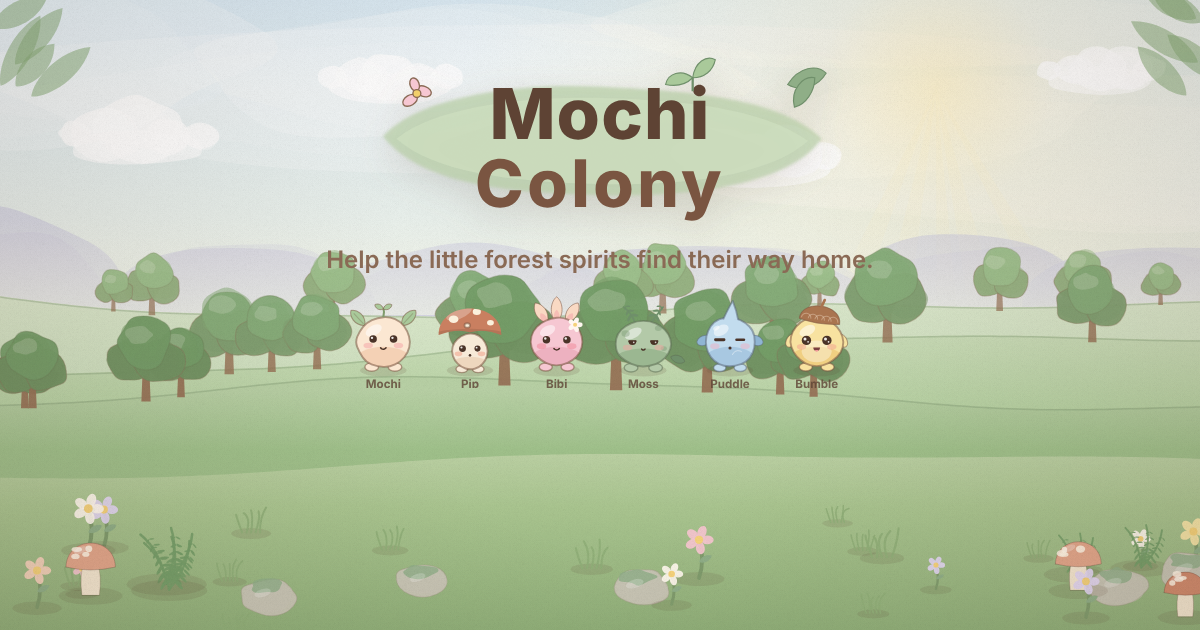
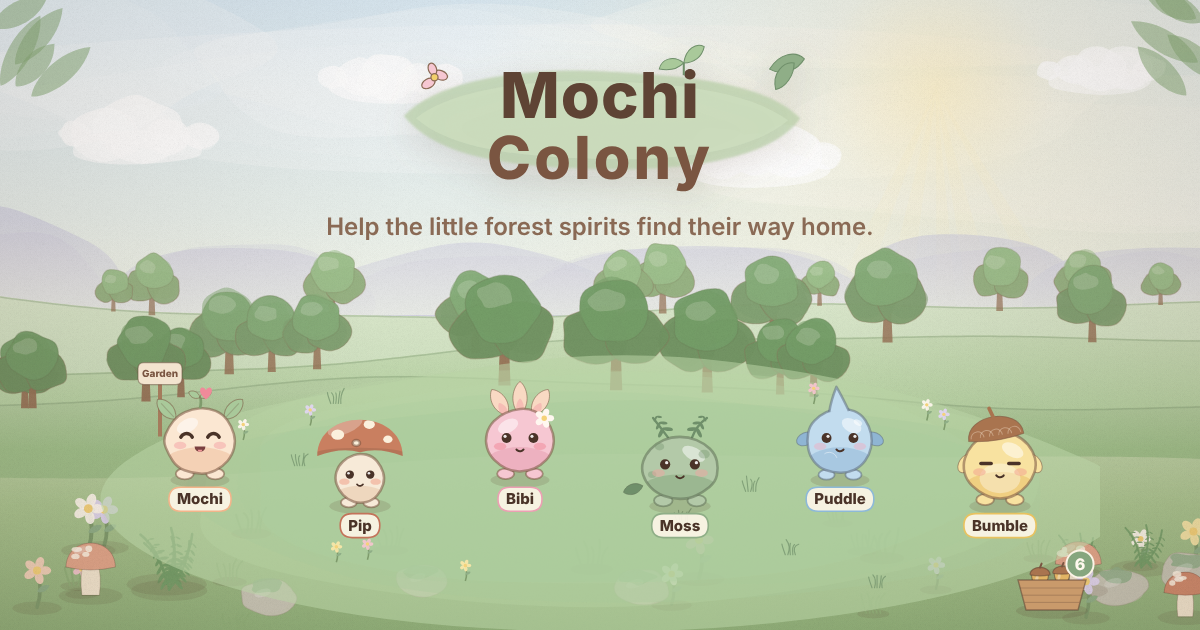
Reward puzzles with acorns and add combo, ripple and bloom effects
- The completion card shows acorns earned and names a hungry friend;
  hungry friends show an acorn thought bubble in the garden
- Connecting pairs in quick succession plays rising chimes and shows a
  combo label; a light ripple runs along each newly connected path
- A perfect garden makes small flowers bloom along every route
- Refresh the link preview to show the whole cast in the garden

Claude-Session: https://claude.ai/code/session_0195uvftCARaRvVNuuDtmbWH

diff --git a/index.html b/index.html
@@ -4,7 +4,7 @@
 <meta charset="utf-8">
 <meta name="viewport" content="width=device-width, initial-scale=1, viewport-fit=cover, user-scalable=no, maximum-scale=1">
 <meta name="theme-color" content="#f6ecd8">
-<meta name="app-version" content="2026.10.16.5">
+<meta name="app-version" content="2026.10.16.6">
 <meta http-equiv="Cache-Control" content="no-cache">
 <meta name="apple-mobile-web-app-capable" content="yes">
 <meta name="apple-mobile-web-app-status-bar-style" content="default">
@@ -200,6 +200,9 @@ canvas{display:block;}
 #intro .txt b{display:block; font-size:16px; font-weight:800;}
 #intro .txt span{color:var(--brown-soft);}
 #toast.action{pointer-events:auto; cursor:pointer; background:linear-gradient(180deg,#86a67e,#6f8f6a); color:#fff8ee;}
+.treats-earned{display:inline-flex; align-items:center; gap:8px; margin:0 auto 12px; padding:6px 14px 6px 8px; border-radius:16px; background:rgba(226,180,100,.2); color:#7a5541; font-weight:800; font-size:14px;}
+.treats-earned[hidden]{display:none;}
+.treats-earned canvas{width:26px; height:26px;}
 .card .next-up{font-size:14px; font-weight:800; color:var(--moss-deep); margin:-8px 0 14px;}
 .sr-only{position:absolute; width:1px; height:1px; overflow:hidden; clip:rect(0 0 0 0); white-space:nowrap;}
 .reduce-motion *{transition-duration:.01ms !important; animation-duration:.01ms !important;}
@@ -273,6 +276,7 @@ canvas{display:block;}
       <p class="sub" id="complete-sub">Level 1 · Hello, Mochi</p>
       <div class="stars-big" id="complete-stars"></div>
       <div id="complete-unlock" class="unlock" hidden></div>
+      <div id="complete-treats" class="treats-earned" hidden></div>
       <p class="msg" id="complete-msg"></p>
       <div class="next-up" id="complete-next"></div>
       <div class="actions">
@@ -344,7 +348,8 @@ const Audio = {
   step(i) { if (!this.enabled) return; const t = now(); if (t - this.lastStep < 45) return; this.lastStep = t; const scale = [523.25, 587.33, 659.25, 783.99, 880, 1046.5, 1174.7, 1318.5]; this.pluck(scale[i % scale.length], 0, .22); },
   bump() { this.tone(150, .09, { type: 'triangle', vol: .3, release: .08, slide: .6 }); },
   cut() { this.tone(420, .07, { type: 'sine', vol: .2, release: .1, slide: .7 }); },
-  connect() { this.pluck(659.25, 0, .35); this.pluck(987.77, .09, .35); this.tone(1318.5, .18, { type: 'sine', vol: .12, at: .18, release: .3 }); },
+  connect(combo = 1) { const k = Math.pow(2, Math.min(combo - 1, 6) * 2 / 12); this.pluck(659.25 * k, 0, .35); this.pluck(987.77 * k, .09, .35); this.tone(1318.5 * k, .18, { type: 'sine', vol: .12, at: .18, release: .3 }); if (combo > 1) this.tone(1975.5 * k, .12, { type: 'sine', vol: .08, at: .26, release: .3 }); },
+  bloom() { [1046.5, 1318.5, 1568, 2093, 2637].forEach((f, i) => this.tone(f, .1, { type: 'sine', vol: .1, at: i * .07, release: .35 })); },
   arrive() { this.tone(880, .06, { type: 'sine', vol: .25, release: .15, slide: 1.4 }); this.tone(1760, .05, { type: 'sine', vol: .1, at: .06, release: .2 }); },
   pop() { this.tone(520, .04, { type: 'sine', vol: .2, release: .06, slide: 1.3 }); },
   undo() { this.pluck(523.25, 0, .25); this.pluck(392, .08, .25); },
@@ -1006,7 +1011,7 @@ const Game = {
   pulsePair(i) { const cre = this.creatures[i]; cre.jump = .01; this.homes[i].react = 0; this.homes[i].pulse = this.t; this.setExpr(i, 'curious', 1.4); const h = this.level.pairs[i].home; cre.look = [Math.sign(h[0] - this.level.pairs[i].start[0]) * .7, Math.sign(h[1] - this.level.pairs[i].start[1]) * .5]; },
   resetState() {
     const L = this.level;
-    this.paths = L.pairs.map(() => []); this.history = []; this.strokes = 0; this.hintsUsed = 0; this.complete = false; this.drawing = null; this.hint = null; this.particles = [];
+    this.paths = L.pairs.map(() => []); this.ripple = L.pairs.map(() => -9); this.combo = 0; this.lastConnectT = -99; this.bloom = null; this.history = []; this.strokes = 0; this.hintsUsed = 0; this.complete = false; this.drawing = null; this.hint = null; this.particles = [];
     this.creatures = L.pairs.map((p, i) => ({ pair: i, type: p.type, state: 'idle', expr: null, exprUntil: 0, blinkAt: 1 + Math.random() * 3, blink: 0, phase: Math.random() * TAU, hopY: 0, sx: 1, sy: 1, rot: 0, look: [0, 0], px: 0, py: 0, walk: null, celebT: 0, retFrom: null, retT: 0, jump: 0 }));
     this.homes = L.pairs.map(() => ({ react: 1, lit: 0, pulse: -9 }));
     this.rebuildOcc();
@@ -1082,7 +1087,9 @@ const Game = {
   bump(x, y, what) { const c = Board.center(x, y); this.spawn(c[0], c[1], 'puff', '#d8cdb8', 4); Audio.bump(); Board.shake(x, y); if (!this.seenBump && what === 'rock') { this.seenBump = true; UI.toast('Rocks block the way. Try another route.'); } },
   puff(x, y, color) { const c = Board.center(x, y); this.spawn(c[0], c[1], 'puff', color, 5); },
   onConnect(i) {
-    Audio.connect(); const cre = this.creatures[i]; const p = this.paths[i].slice(); const L = this.level;
+    this.combo = this.t - this.lastConnectT < 6 ? this.combo + 1 : 1; this.lastConnectT = this.t; this.ripple[i] = this.t;
+    Audio.connect(this.combo); const cre = this.creatures[i]; const p = this.paths[i].slice(); const L = this.level;
+    if (this.combo >= 2) { const hc0 = Board.center(L.pairs[i].home[0], L.pairs[i].home[1]); this.particles.push({ x: hc0[0], y: hc0[1] - Board.cell * .55, vx: 0, vy: -28, kind: 'text', text: `Combo ×${this.combo}`, color: shade(CHARS[L.pairs[i].type].path, .35), life: 0, max: 1.3, rot: 0, vr: 0, s: Board.cell * .22 }); }
     if (!(p[0][0] === L.pairs[i].start[0] && p[0][1] === L.pairs[i].start[1])) p.reverse();
     const per = clamp(1.1 / p.length, .08, .15);
     cre.state = 'walk'; cre.walk = { cells: p, i: 0, t: -.18, per }; cre.exprUntil = 0; cre.expr = 'excited'; cre.exprUntil = 99;
@@ -1096,11 +1103,12 @@ const Game = {
     this.complete = true; const n = this.level.pairs.length; const L = this.level;
     const covered = this.occ.size; const tidy = this.strokes <= n + 2; const perfect = L.fill ? covered === L.free : this.strokes <= n + 1;
     let stars = 1 + (tidy ? 1 : 0) + (perfect ? 1 : 0); if (this.hintsUsed) stars = Math.min(stars, 2);
-    const prevUnlocked = Save.unlockedCount();
+    const prevUnlocked = Save.unlockedCount(); const treatsBefore = Save.data.treats || 0;
     if (this.idx === -1) Save.setDaily(stars); else { Save.setStars(this.idx, stars); Save.data.perfectStreak = stars === 3 ? (Save.data.perfectStreak || 0) + 1 : 0; Save.save(); }
     const maxWalk = Math.max(...this.creatures.map(c => c.walk ? (c.walk.cells.length - 1 - c.walk.i) * c.walk.per + .2 : 0));
     this.completeAt = this.t + maxWalk + .7;
-    this.pending = { stars, covered, perfect, tidy, newArea: this.idx >= 0 && Save.unlockedCount() > prevUnlocked ? AREAS.find(a => a.levels[0] === prevUnlocked) : null };
+    if (L.fill && perfect) { this.bloom = { t0: this.t + .15 }; this.completeAt += .5; setTimeout(() => Audio.bloom(), 150); }
+    this.pending = { earned: (Save.data.treats || 0) - treatsBefore, stars, covered, perfect, tidy, newArea: this.idx >= 0 && Save.unlockedCount() > prevUnlocked ? AREAS.find(a => a.levels[0] === prevUnlocked) : null };
     UI.updateHud();
   },
   undo() {
@@ -1162,7 +1170,7 @@ const Game = {
       }
     }
     for (let i = 0; i < this.homes.length; i++) { const h = this.homes[i]; if (h.react < 1) h.react = Math.min(1, h.react + dt * 1.6); const want = this.creatures[i].state === 'home' ? 1 : 0; h.lit += (want - h.lit) * Math.min(1, dt * 4); }
-    for (let i = this.particles.length - 1; i >= 0; i--) { const p = this.particles[i]; p.life += dt; if (p.life > p.max) { this.particles.splice(i, 1); continue; } p.vy += (p.kind === 'heart' ? -10 : p.kind === 'puff' ? -20 : 70) * dt; p.vx *= (1 - dt * 1.5); p.x += p.vx * dt; p.y += p.vy * dt; p.rot += p.vr * dt; }
+    for (let i = this.particles.length - 1; i >= 0; i--) { const p = this.particles[i]; p.life += dt; if (p.life > p.max) { this.particles.splice(i, 1); continue; } p.vy += (p.kind === 'heart' ? -10 : p.kind === 'puff' ? -20 : p.kind === 'text' ? 12 : 70) * dt; p.vx *= (1 - dt * 1.5); p.x += p.vx * dt; p.y += p.vy * dt; p.rot += p.vr * dt; }
     if (this.hint && this.t > this.hint.until) this.hint = null;
     if (this.intro) { this.intro.t += dt; if (this.intro.t > .55) { this.intro.t = 0; this.intro.i++; if (this.intro.i >= L.pairs.length) this.intro = null; else this.pulsePair(this.intro.i); } }
     if (this.tutorial) this.tutorial.t += dt;
@@ -1266,11 +1274,25 @@ const Board = {
       ctx.strokeStyle = shade(col, .3); ctx.globalAlpha = (live ? .9 : 1) * .35; ctx.lineWidth = cs * .5; ctx.stroke(); ctx.globalAlpha = live ? .9 : 1;
       ctx.strokeStyle = col; ctx.globalAlpha *= .9; ctx.lineWidth = cs * .42; ctx.stroke();
       ctx.globalAlpha = .9; ctx.strokeStyle = 'rgba(255,255,255,.26)'; ctx.lineWidth = cs * .13; ctx.save(); ctx.translate(-cs * .04, -cs * .05); this.ribbon(ctx, p, cs); ctx.stroke(); ctx.restore();
+      // a bright ripple runs from the creature to its home when a path connects
+      const rAge = t - (Game.ripple ? Game.ripple[i] : -9);
+      if (done && rAge >= 0 && rAge < .9) {
+        const k = rAge / .9; const fwd = p[0][0] === L.pairs[i].start[0] && p[0][1] === L.pairs[i].start[1]; const pos = (fwd ? k : 1 - k) * (p.length - 1); const ix = Math.min(p.length - 2, Math.floor(pos)); const f = pos - ix;
+        const a = this.center(p[ix][0], p[ix][1]), b = this.center(p[ix + 1][0], p[ix + 1][1]); const gx = lerp(a[0], b[0], f), gy = lerp(a[1], b[1], f);
+        ctx.save(); ctx.globalAlpha = .55 * (1 - k * .6); this.ribbon(ctx, p, cs); ctx.strokeStyle = 'rgba(255,255,255,.5)'; ctx.lineWidth = cs * .5 * (1 + .25 * Math.sin(k * Math.PI)); ctx.stroke();
+        const g = ctx.createRadialGradient(gx, gy, 0, gx, gy, cs * .6); g.addColorStop(0, 'rgba(255,255,255,.95)'); g.addColorStop(1, 'rgba(255,255,255,0)'); ctx.globalAlpha = 1 - k * .5; ctx.fillStyle = g; circle(ctx, gx, gy, cs * .6); ctx.fill(); ctx.restore();
+      }
       // motif marks along the ribbon
       for (let j = 2; j < p.length - 1; j += 2) { const c0 = this.center(p[j][0], p[j][1]); drawMotif(ctx, C.motif, c0[0], c0[1], cs * .09, rgba('#ffffff', done ? .55 : .4)); }
       if (live) { const l = this.center(p[p.length - 1][0], p[p.length - 1][1]); const g = ctx.createRadialGradient(l[0], l[1], 0, l[0], l[1], cs * .5); g.addColorStop(0, 'rgba(255,255,255,.55)'); g.addColorStop(1, 'rgba(255,255,255,0)'); ctx.fillStyle = g; ctx.globalAlpha = .6 + .3 * Math.sin(t * 8); circle(ctx, l[0], l[1], cs * .5); ctx.fill(); }
       ctx.restore();
     });
+    // perfect garden: little flowers bloom along every route
+    if (Game.bloom) {
+      Game.paths.forEach((p, i) => { const col = CHARS[L.pairs[i].type].path; for (let j = 1; j < p.length - 1; j++) {
+        const d = i * .06 + j / p.length * .55; const k = clamp((t - Game.bloom.t0 - d) / .35, 0, 1); if (k <= 0) continue; const sc = easeBack(k); const c0 = this.center(p[j][0], p[j][1]); const r = cs * .13 * sc;
+        ctx.save(); ctx.translate(c0[0], c0[1]); ctx.rotate(j * 1.3); ctx.fillStyle = tint(col, .55); for (let q = 0; q < 5; q++) { const an = q / 5 * TAU; ellipse(ctx, Math.cos(an) * r * .9, Math.sin(an) * r * .9, r * .7, r * .48, an); ctx.fill(); } ctx.fillStyle = '#f5d27a'; circle(ctx, 0, 0, r * .45); ctx.fill(); ctx.restore(); } });
+    }
     // hint ghost route
     if (Game.hint) { const P = L.pairs[Game.hint.pair]; const C = CHARS[P.type]; const k = clamp((t - Game.hint.start) / .5, 0, 1); ctx.save(); ctx.globalAlpha = .55 * k * (Game.hint.until - t < .6 ? (Game.hint.until - t) / .6 : 1); this.ribbon(ctx, P.solution, cs); ctx.setLineDash([cs * .22, cs * .22]); ctx.lineDashOffset = -t * cs * .8; ctx.strokeStyle = shade(C.path, .2); ctx.lineWidth = cs * .18; ctx.stroke(); ctx.restore(); }
     // "this is where I live" rings: while drawing a friend's path, or after tapping a friend
@@ -1310,6 +1332,7 @@ const Board = {
       if (p.kind === 'petal') { ellipse(ctx, 0, 0, p.s, p.s * .6); ctx.fill(); ctx.fillStyle = 'rgba(255,255,255,.4)'; ellipse(ctx, -p.s * .3, -p.s * .1, p.s * .3, p.s * .2); ctx.fill(); }
       else if (p.kind === 'sparkle') { drawMotif(ctx, 'star', 0, 0, p.s * (1.4 - k), '#fff1c4'); }
       else if (p.kind === 'heart') { const s = p.s * (1 + k * .4); ctx.beginPath(); ctx.moveTo(0, s * .7); ctx.bezierCurveTo(-s * 1.2, -s * .2, -s * .5, -s * 1.1, 0, -s * .35); ctx.bezierCurveTo(s * .5, -s * 1.1, s * 1.2, -s * .2, 0, s * .7); ctx.fill(); }
+      else if (p.kind === 'text') { ctx.rotate(-p.rot); const fs = Math.max(13, p.s); ctx.font = `800 ${fs}px ${getComputedStyle(document.body).fontFamily}`; ctx.textAlign = 'center'; ctx.textBaseline = 'middle'; const tw = ctx.measureText(p.text).width; ctx.globalAlpha = 1 - easeIn(k); ctx.fillStyle = 'rgba(251,244,230,.95)'; roundRectPath(ctx, -tw / 2 - 9, -fs * .75, tw + 18, fs * 1.5, fs * .75); ctx.fill(); ctx.fillStyle = p.color; ctx.fillText(p.text, 0, 1); }
       else { circle(ctx, 0, 0, p.s * (1 + k * 1.5)); ctx.globalAlpha *= .7; ctx.fill(); }
       ctx.restore();
     }
@@ -1423,7 +1446,7 @@ const UI = {
   hideIntro() { $('#intro').classList.remove('show'); clearTimeout(this.introT); },
   hintBubble(msg, ms) { const el = $('#hint-bubble'); el.textContent = msg; el.classList.add('show'); clearTimeout(this.hintT); this.hintT = setTimeout(() => el.classList.remove('show'), ms); },
   hideHintBubble() { $('#hint-bubble').classList.remove('show'); clearTimeout(this.hintT); },
-  showComplete({ stars, newArea, covered, perfect, tidy }) {
+  showComplete({ stars, newArea, covered, perfect, tidy, earned }) {
     const L = Game.level; const daily = Game.idx === -1; const last = !daily && Game.idx === LEVELS.length - 1;
     $('#complete-title').textContent = last ? 'The whole colony is home!' : stars === 3 ? (L.fill ? 'Perfect garden!' : "Everyone's home!") : 'Everyone made it home!';
     $('#complete-sub').textContent = daily ? `Today's puzzle · ${Save.todayKey()}` : `Level ${L.index + 1} · ${L.name}`;
@@ -1435,6 +1458,9 @@ const UI = {
     const ps = Save.data.perfectStreak || 0; if (!daily && stars === 3 && ps >= 2) msg += ` Perfect streak ×${ps}!`;
     $('#complete-msg').textContent = msg;
     $('#btn-replay').textContent = L.fill && !perfect ? 'Try for perfect' : 'Replay';
+    const te = $('#complete-treats');
+    if (earned > 0) { const hungry = CHAR_ORDER.filter(t => (t === 'mochi' || Save.data.met[t]) && Save.happy(t) < 40).map(t => CHARS[t].name)[0]; te.hidden = false; te.innerHTML = `<canvas width="52" height="52" aria-hidden="true"></canvas><span>+${earned} acorn${earned === 1 ? '' : 's'}${hungry ? ` · ${hungry} is hungry!` : ' for the garden'}</span>`; const cx = $('canvas', te).getContext('2d'); cx.setTransform(2, 0, 0, 2, 0, 0); drawAcorn(cx, 13, 12, 15); }
+    else te.hidden = true;
     const un = $('#complete-unlock'); if (newArea) { un.hidden = false; un.textContent = `New area unlocked: ${newArea.name}`; } else un.hidden = true;
     $('#btn-next').textContent = last ? 'Back to the map' : daily ? 'Done for today' : 'Next level';
     const nextEl = $('#complete-next'); if (daily) nextEl.textContent = `${Save.dailyStreak()}-day streak. A new puzzle arrives tomorrow.`; else if (last) nextEl.textContent = `${Save.totalStars()} of ${LEVELS.length * 3} colony stars collected`;
@@ -1663,6 +1689,7 @@ const Garden = {
       ctx.font = `800 ${fs}px ${font}`; const tw = ctx.measureText(name).width; const bw = tw + 16, bh = fs + 9, bx = p.x - bw / 2, by = p.y + u * .1;
       ctx.fillStyle = 'rgba(251,244,230,.94)'; roundRectPath(ctx, bx, by, bw, bh, bh / 2); ctx.fill(); ctx.strokeStyle = CHARS[p.type].path; ctx.lineWidth = 1.6; ctx.stroke();
       ctx.fillStyle = '#4a3328'; ctx.textAlign = 'center'; ctx.textBaseline = 'middle'; ctx.fillText(name, p.x, by + bh / 2 + .5);
+      if (p.meterT <= 0 && ['idle', 'sniff', 'walk'].includes(p.state) && Save.happy(p.type) < 35 && Math.sin(t * .9 + p.phase) > .2) { const bx = p.x + u * .32 * p.face, by = p.y - u * 1.0 + p.hopY; ctx.save(); ctx.fillStyle = 'rgba(251,244,230,.95)'; ctx.strokeStyle = 'rgba(94,67,52,.35)'; ctx.lineWidth = 1.2; circle(ctx, bx, by, 13); ctx.fill(); ctx.stroke(); circle(ctx, bx - 9 * p.face, by + 14, 3.5); ctx.fill(); ctx.stroke(); drawAcorn(ctx, bx, by - 1, 12); ctx.restore(); }
       if (p.meterT > 0) { const hpy = Save.happy(p.type); const a = Math.min(1, p.meterT * 2); ctx.save(); ctx.globalAlpha = a; const mx = p.x - 2 * 11, my = p.y - u * 1.02 + p.hopY; ctx.fillStyle = 'rgba(251,244,230,.9)'; roundRectPath(ctx, mx - 9, my - 9, 5 * 11 + 7, 17, 8); ctx.fill(); for (let i = 0; i < 5; i++) { const fill = clamp(hpy / 20 - i, 0, 1); drawHeart(ctx, mx + i * 11, my, 4.6, 'rgba(94,67,52,.18)'); if (fill > 0) { ctx.save(); ctx.beginPath(); ctx.rect(mx + i * 11 - 6, my - 6, 12 * fill, 12); ctx.clip(); drawHeart(ctx, mx + i * 11, my, 4.6, '#f08a9a'); ctx.restore(); } } ctx.restore(); }
     }
     for (const f of this.fx) { const k = f.life / f.max; ctx.save(); ctx.globalAlpha = 1 - easeIn(k); if (f.k === 'heart') drawHeart(ctx, f.x, f.y, f.s * (1 + k * .3), '#f08a9a'); else if (f.k === 'z') { ctx.fillStyle = '#7a6a8a'; ctx.font = `800 ${f.s}px ${font}`; ctx.textAlign = 'center'; ctx.fillText('z', f.x, f.y); } else { ctx.fillStyle = '#c99a6b'; circle(ctx, f.x, f.y, f.s); ctx.fill(); } ctx.restore(); }

diff --git a/README.md b/README.md
@@ -29,6 +29,12 @@ friend's path cuts it short. Undo, reset and a hint are always available.
 
 52 levels across six areas, plus a fresh daily puzzle with a streak counter.
 
+## The garden
+
+Friends you meet move into the garden on the home screen. Tap a friend to pet them, hold for a cuddle, or tap the
+grass to call one over. Every new star earns an acorn: drag one from the basket onto a friend, or tap the basket to
+toss one into the grass. Well-fed, well-loved friends do a happy dance. Hungry ones show a little acorn bubble.
+
 ## Releasing an update
 
 Bump the `app-version` meta tag in `index.html` with every deploy. Open copies of the game check it in the
